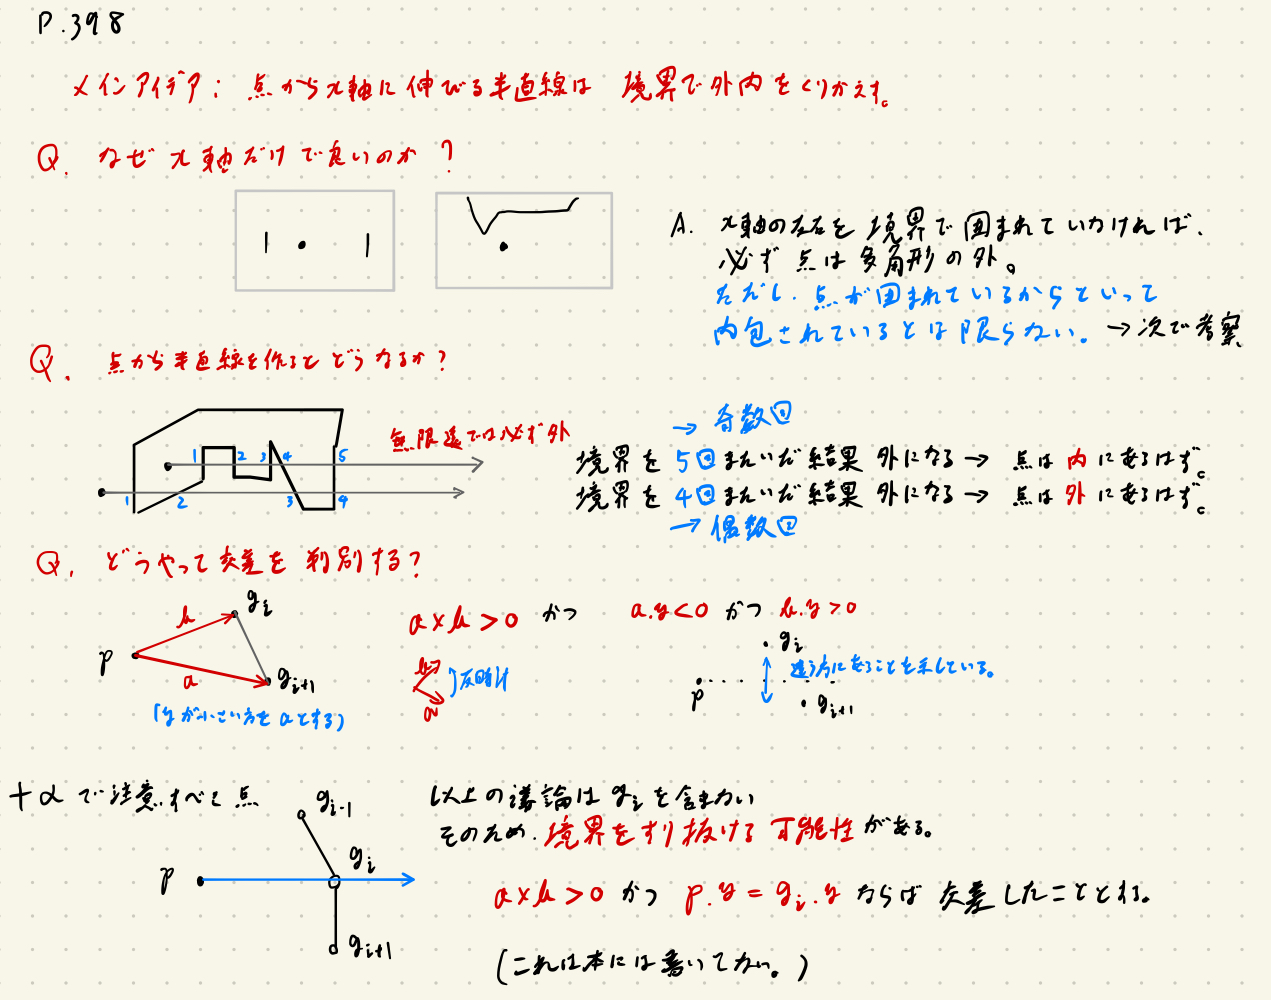
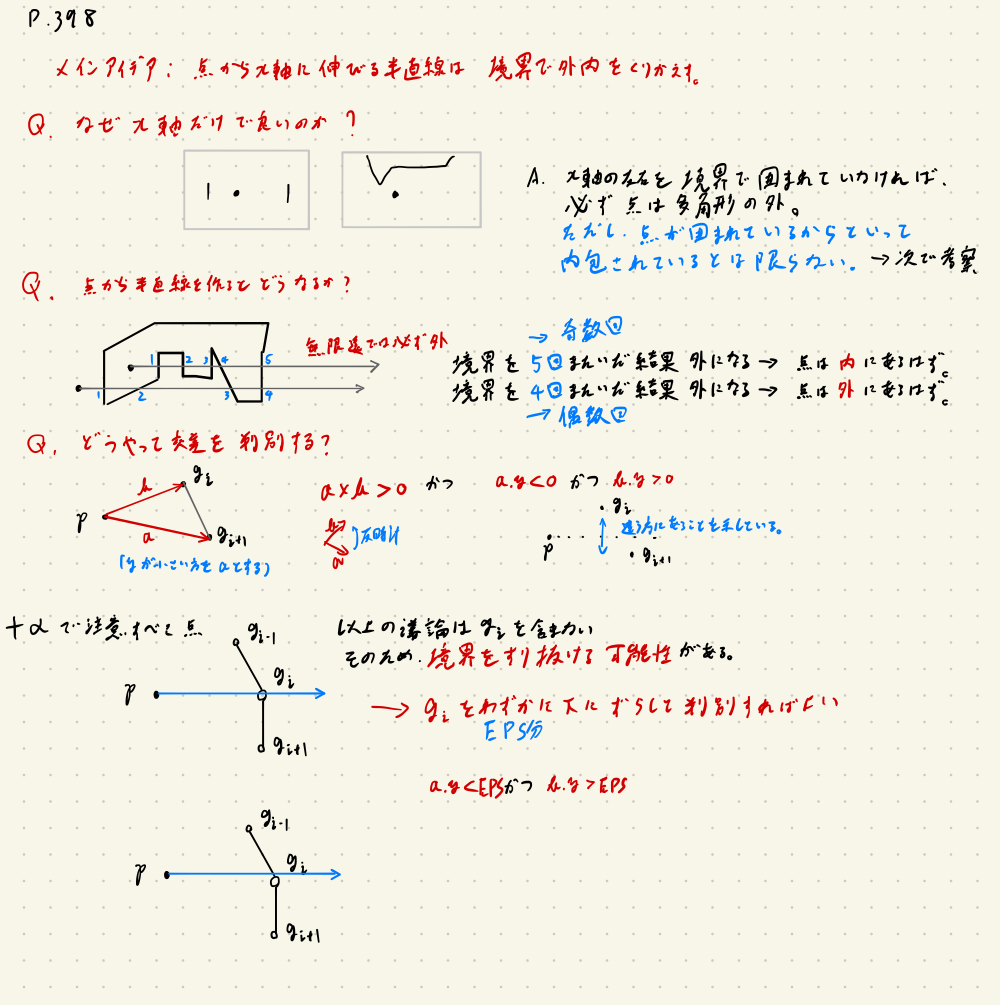
点の内包を調べる。

diff --git a/practice/algorithm_datastructure_for_programming_contest/398_CGL_3_C.py b/practice/algorithm_datastructure_for_programming_contest/398_CGL_3_C.py
@@ -77,7 +77,38 @@ def contains(G, p):
     '''
     Gは多角形を表すリストで、今回ならばvectorが中に並んでいることとする
     pは内容しているか判別したい点で、Vectorで表す
-    pが多角形Gに内包されていればTrueを返す
+
+    pが多角形Gの辺上にあれば1
+    pが多角形Gに内包されていれば2
+    それ以外は0をreturnする
     '''
-    ret = False
-    for i in G
+    is_contain = False  # 内包してるか
+    for i in range(len(G)):
+        a = G[i].sub(p)
+        b = G[(i + 1) % len(G)].sub(p)  # i+1が0に戻るようにこのような形式にしている。
+        # もしpがG[i]とG[i+1]の線分上にある場合は即座に1をreturnします
+        if abs(cross(a, b)) < EPS and dot(a, b) < EPS:
+            # 外積が0→a,bが同一直線上
+            # かつ 内積が負→a,bは逆を向いている
+            # ならばpは線分上に存在する
+            return 1
+        # 内包を判定する。前処理として、yの座標によってa,bを入れ替える
+        if a[1] > b[1]:  # aの方のy座標を小さくしたい
+            a, b = b, a
+        if a[1] < EPS and b[1] > EPS and cross(a, b) > EPS:  # 実際に判別する
+            is_contain = (not is_contain)
+    return (0, 2)[is_contain]  # 書き方キモいけど三項演算子の短い書き方
+
+
+# load data
+N = int(input())
+G = []
+for _ in range(N):
+    g = Vector(list(map(int, input().split())))
+    G.append(g)
+
+# answer query
+Q = int(input())
+for _ in range(Q):
+    p = Vector(list(map(int, input().split())))
+    print(contains(G, p))
